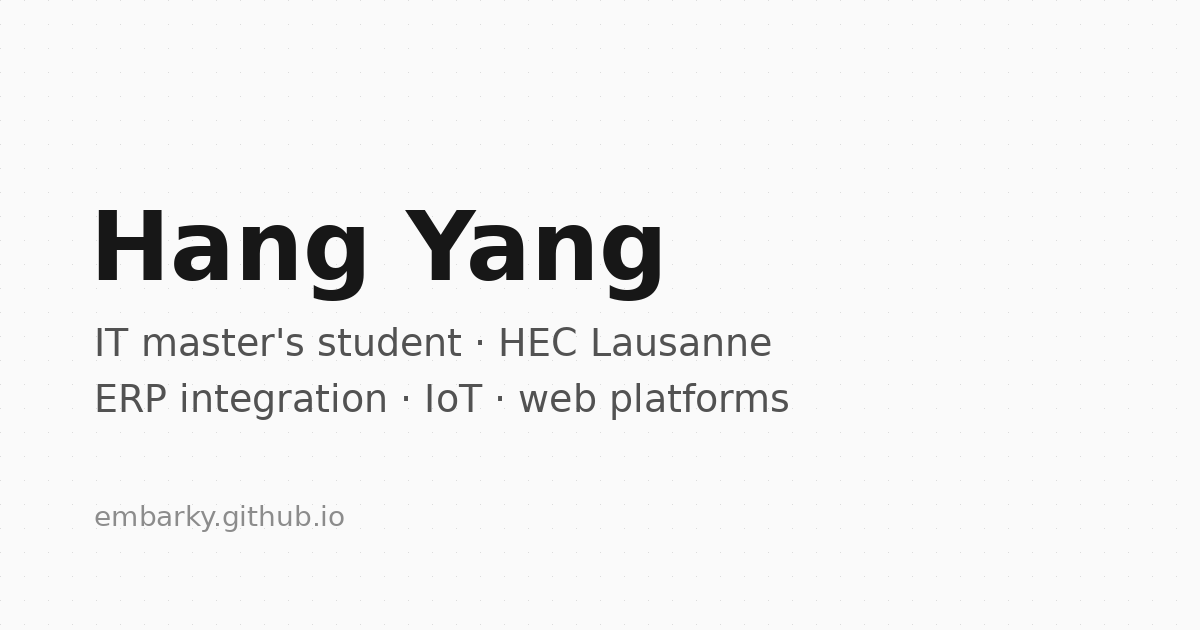
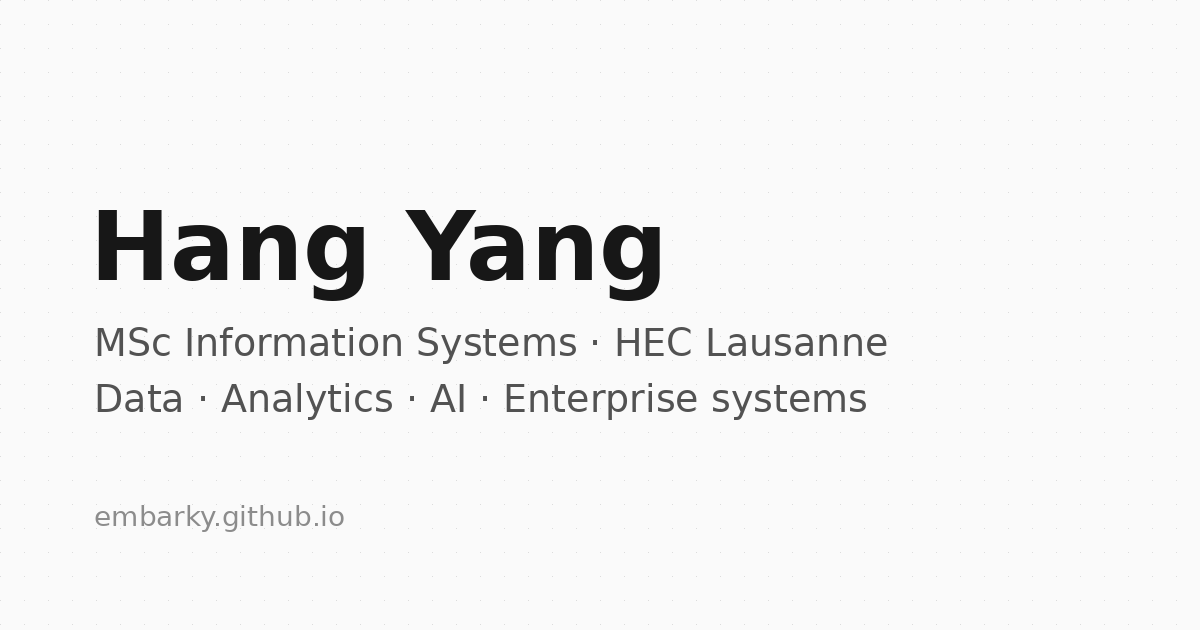
Fill in profile from CV
Add work experience at Dongfeng, bachelor education, data and ML
skills, email contact, course context for MSc projects and a
competitions & awards timeline; show work bullets as a list.

Claude-Session: https://claude.ai/code/session_011PJihjbh9c3cavSoe85DJL

Changed region(s): [[0.0925, 0.5127, 0.74, 0.573], [0.0925, 0.6032, 0.74, 0.6635]]

diff --git a/src/data/resume.tsx b/src/data/resume.tsx
@@ -3,6 +3,7 @@ import { House } from "lucide-react";
 import { Python } from "@/components/ui/svgs/python";
 import { Java } from "@/components/ui/svgs/java";
 import { Docker } from "@/components/ui/svgs/docker";
+import { Postgresql } from "@/components/ui/svgs/postgresql";
 
 export const DATA = {
   name: "Hang Yang",
@@ -11,14 +12,14 @@ export const DATA = {
   location: "Lausanne, Switzerland",
   locationLink: "https://www.google.com/maps/place/lausanne",
   description:
-    "IT master's student at HEC Lausanne. I connect business processes and software: ERP integration, IoT and web platforms.",
+    "MSc student in Information Systems at HEC Lausanne and former data engineer in the automotive industry. I work where data, AI and business meet.",
   summary:
-    "I study at [HEC Lausanne, University of Lausanne](/#education), where my work sits between business and technology. I like taking a real process (selling, renting, monitoring a room) and turning it into a system people can use: modelling it, integrating the tools a company already has, and shipping something that runs with one command.\n\nRecent work includes [opening an Odoo ERP sales process to customers](/#projects) through an API and web portals, [an IoT air-quality assistant](/#projects) with voice alerts and a cloud dashboard, and a full-stack rental platform in Jakarta EE.\n\nI am looking for an **industrial PhD** or an **industry role** in Switzerland, in digital transformation, enterprise systems or applied IoT.",
+    "I am studying for an [MSc in Information Systems and Digital Innovation](/#education) at HEC Lausanne, after a bachelor's in Data Science and Big Data Technology.\n\nBefore Lausanne I spent [a year at Dongfeng Special Commercial Vehicle](/#work), first as a data analyst intern, then as a data engineer: I predicted vehicle faults with XGBoost, built Power BI dashboards the R&D team used every day, and made the sensor-data pipelines faster and more reliable.\n\nAt UNIL I build [systems that connect business processes and technology](/#projects): an ERP integration for Odoo, an IoT air-quality assistant on Google Cloud, and a Jakarta EE rental platform.\n\nI am looking for an **industrial PhD** or a role in **data, analytics or AI** in Switzerland, where business and technology meet.",
   avatarUrl: "https://github.com/embarky.png",
   ogImage: "/og_image.png",
   sections: {
     about: { order: 1, enabled: true, heading: "About" },
-    work: { order: 2, enabled: false, heading: "Work Experience", presentLabel: "Present" },
+    work: { order: 2, enabled: true, heading: "Work Experience", presentLabel: "Present" },
     education: { order: 3, enabled: true, heading: "Education" },
     skills: { order: 4, enabled: true, heading: "Skills" },
     projects: {
@@ -26,17 +27,17 @@ export const DATA = {
       enabled: true,
       label: "Projects",
       heading: "Selected work",
-      text: "Each project runs locally with a single docker compose command, with tests and CI on GitHub.",
+      text: "MSc projects at UNIL. Each one runs locally with a single docker compose command, with tests and CI on GitHub.",
     },
     hackathons: {
-      order: 7,
-      enabled: false,
-      label: "Hackathons",
-      heading: "Hackathons",
-      text: "",
+      order: 6,
+      enabled: true,
+      label: "Earlier projects",
+      heading: "Competitions & awards",
+      text: "Projects from my bachelor's years, most of them recognised in national competitions.",
     },
     photos: {
-      order: 6,
+      order: 7,
       enabled: false,
       heading: "Photos",
     },
@@ -45,28 +46,29 @@ export const DATA = {
       enabled: true,
       label: "Contact",
       heading: "Get in Touch",
-      text: "Open to industrial PhD positions and roles in Switzerland. The quickest way to reach me is through [GitHub](https://github.com/embarky).",
+      text: "Open to industrial PhD positions and data, analytics or AI roles in Switzerland. Write to me at [hang.yang@unil.ch](mailto:hang.yang@unil.ch).",
     },
   },
   photos: [],
   skills: [
     { name: "Python", icon: Python },
-    { name: "Java", icon: Java },
+    { name: "SQL" },
+    { name: "Java (Jakarta EE)", icon: Java },
+    { name: "pandas" },
+    { name: "scikit-learn" },
+    { name: "XGBoost / LightGBM" },
+    { name: "Spark SQL" },
+    { name: "Power BI" },
+    { name: "Google Cloud (BigQuery)" },
     { name: "Docker", icon: Docker },
-    { name: "FastAPI" },
-    { name: "Flask" },
-    { name: "Jakarta EE" },
-    { name: "SQL / MySQL" },
-    { name: "BigQuery" },
+    { name: "FastAPI / Flask" },
+    { name: "MySQL / PostgreSQL", icon: Postgresql },
     { name: "Odoo ERP" },
-    { name: "Node-RED" },
-    { name: "BPMN & UML" },
-    { name: "MicroPython / IoT" },
-    { name: "CI with GitHub Actions" },
+    { name: "OpenCV / YOLOv5" },
   ],
   navbar: [{ href: "/", icon: House, label: "Home" }],
   contact: {
-    email: "",
+    email: "hang.yang@unil.ch",
     tel: "",
     social: {
       GitHub: {
@@ -75,28 +77,67 @@ export const DATA = {
         icon: Icons.github,
         navbar: true,
       },
+      email: {
+        name: "Email",
+        url: "mailto:hang.yang@unil.ch",
+        icon: Icons.email,
+        navbar: true,
+      },
     },
   },
 
-  work: [],
+  work: [
+    {
+      company: "Dongfeng Special Commercial Vehicle",
+      href: "https://www.dfcv.com.cn",
+      badges: [],
+      location: "Shiyan, China",
+      title: "Data Engineer",
+      logoUrl: "https://www.google.com/s2/favicons?domain=dfcv.com.cn&sz=128",
+      start: "Sep 2023",
+      end: "Feb 2024",
+      description:
+        "- Re-designed the indexes of the vehicle-record tables in a MySQL master-slave setup, cutting query latency from 1.2 s to 0.4 s.\n- Designed data-integrity rules (VIN format, timestamp continuity) that resolved 50+ sensor-data misalignments per month.\n- Built Spark SQL batch jobs that standardised 10+ vehicle signal types into Parquet datasets for the algorithm team.",
+    },
+    {
+      company: "Dongfeng Special Commercial Vehicle",
+      href: "https://www.dfcv.com.cn",
+      badges: [],
+      location: "Shiyan, China",
+      title: "Data Analyst Intern",
+      logoUrl: "https://www.google.com/s2/favicons?domain=dfcv.com.cn&sz=128",
+      start: "Feb 2023",
+      end: "Sep 2023",
+      description:
+        "- Built an XGBoost classifier on sensor and fault data to predict the risk of critical fault codes (73% accuracy).\n- Developed a Power BI vehicle-performance dashboard (fault heatmap, driving-behaviour radar) that helped R&D find high-failure components; 200+ visits per day.\n- Automated daily and weekly driving reports that flag abnormal fluctuations, saving 15 hours of manual analysis per week.",
+    },
+  ],
   education: [
     {
       school: "HEC Lausanne, University of Lausanne",
       href: "https://www.unil.ch/hec",
-      degree: "Master of Science in Information Systems",
+      degree: "MSc in Information Systems and Digital Innovation",
       logoUrl: "https://www.google.com/s2/favicons?domain=unil.ch&sz=128",
-      start: "",
-      end: "Present",
+      start: "2025",
+      end: "2027 (expected)",
+    },
+    {
+      school: "China Three Gorges University",
+      href: "https://www.ctgu.edu.cn",
+      degree: "BEng in Data Science and Big Data Technology",
+      logoUrl: "https://www.google.com/s2/favicons?domain=ctgu.edu.cn&sz=128",
+      start: "2019",
+      end: "2023",
     },
   ],
   projects: [
     {
       title: "Odoo Sales Integration",
       href: "https://github.com/embarky/odoo-sales-integration",
-      dates: "2025",
+      dates: "Autumn 2025 · Enterprise Data and Integration",
       active: true,
       description:
-        "Opened a company's Odoo ERP sales process to its customers. Modelled the process in BPMN and UML, exposed Odoo through a documented REST API, and built a customer portal, back office, service desk and KPI dashboards on top of it.",
+        "Opened a company's Odoo ERP sales process to its customers. Modelled the process in BPMN and UML, exposed Odoo through a FastAPI service with 20+ endpoints (quotations, orders, invoices, purchasing), and built a customer portal, back office and KPI dashboards on top.",
       technologies: ["Odoo ERP", "FastAPI", "XML-RPC", "Node-RED", "BPMN", "Docker"],
       links: [
         {
@@ -111,11 +152,11 @@ export const DATA = {
     {
       title: "AuraSense",
       href: "https://github.com/embarky/AuraSense-M5StackCore2",
-      dates: "2026",
+      dates: "Spring 2026 · Cloud and Advanced Analytics",
       active: true,
       description:
-        "An indoor air-quality assistant on an M5Stack Core2: live sensing, light and spoken alerts that work offline, a Gemini voice assistant, and a cloud backend with a web dashboard. 89 automated tests, down to the firmware.",
-      technologies: ["MicroPython", "Flask", "BigQuery", "Gemini", "Streamlit", "Docker"],
+        "An edge-to-cloud air-quality monitor on an M5Stack Core2: three sensors, light and voice alerts, a Gemini voice assistant, and a Flask + BigQuery back-end with a Streamlit dashboard on Google Cloud.",
+      technologies: ["MicroPython", "Flask", "BigQuery", "Gemini API", "GCP", "Docker"],
       links: [
         {
           type: "Video",
@@ -134,11 +175,11 @@ export const DATA = {
     {
       title: "Luxury Car Rental",
       href: "https://github.com/embarky/LuxuryCarRental",
-      dates: "",
+      dates: "Autumn 2025 · Software Architectures",
       active: true,
       description:
-        "A car rental platform in a three-layer Jakarta EE architecture: JSF front end, secured REST API and MySQL. Covers the full booking life cycle, from licence checks and payment to hand-over, return and refund, plus an admin dashboard.",
-      technologies: ["Java 17", "Jakarta EE 10", "JSF", "JAX-RS", "MySQL", "Testcontainers"],
+        "A multi-tier Jakarta EE platform: domain, REST service (~40 JAX-RS endpoints) and JSF front end, with MySQL, e-mail notifications and an admin dashboard. Covers the full booking life cycle, from licence checks to hand-over and refund.",
+      technologies: ["Java 17", "Jakarta EE", "JAX-RS", "JSF", "MySQL", "Docker"],
       links: [
         {
           type: "Source",
@@ -150,5 +191,42 @@ export const DATA = {
       video: "",
     },
   ],
-  hackathons: [],
+  hackathons: [
+    {
+      title: "Vehicle Fault Diagnosis",
+      dates: "2023",
+      location: "6th place (top 2%), 6th Dongfeng Youth Digital Innovation & Skills Challenge",
+      description:
+        "Cleaned 100,000+ fault codes and sensor records and built an XGBoost model to diagnose high-frequency faults, with a Power BI dashboard of fault heatmaps and health scores. Troubleshooting became 40% faster, saving an estimated USD 150K a year in after-sales costs.",
+      image: "",
+      links: [],
+    },
+    {
+      title: "Intelligent Power Maintenance System",
+      dates: "2022 – 2023 · Bachelor thesis",
+      location: "China Three Gorges University",
+      description:
+        "Trained a YOLOv5 insulator-defect detector with transfer learning on ~2,000 images (91.5% test accuracy) and built a small web service for maintenance records and work orders.",
+      image: "",
+      links: [],
+    },
+    {
+      title: "Machine-Learning Trading Strategy",
+      dates: "2021 – 2022",
+      location: "First Prize, 9th National Securities Investment Simulation Competition · Third Prize, 7th Eastmoney Cup",
+      description:
+        "Designed a LightGBM mid-frequency strategy combining sentiment and momentum factors with dynamic risk parity and adaptive stops (24.3% annualised return in backtesting).",
+      image: "",
+      links: [],
+    },
+    {
+      title: "Depth-Vision Smart Cane",
+      dates: "2021",
+      location: "Third Prize, 9th National Digital Media Sci-Tech Works and Creativity Competition",
+      description:
+        "Calibrated an Intel RealSense RGB-D camera and built a labelled set of 1,000+ depth images for real-time obstacle detection, with audio-vibration feedback for visually impaired users.",
+      image: "",
+      links: [],
+    },
+  ],
 } as const;

diff --git a/src/components/section/work-section.tsx b/src/components/section/work-section.tsx
@@ -9,6 +9,7 @@ import {
 import { DATA } from "@/data/resume";
 import { ChevronDown, ChevronRight } from "lucide-react";
 import { cn } from "@/lib/utils";
+import Markdown from "react-markdown";
 
 function LogoImage({ src, alt }: { src: string; alt: string }) {
   const [imageError, setImageError] = useState(false);
@@ -34,8 +35,8 @@ export default function WorkSection() {
     <Accordion type="single" collapsible className="w-full grid gap-6">
       {DATA.work.map((work) => (
         <AccordionItem
-          key={work.company}
-          value={work.company}
+          key={work.company + work.title}
+          value={work.company + work.title}
           className="w-full border-b-0 grid gap-2"
         >
           <AccordionTrigger className="hover:no-underline p-0 cursor-pointer transition-colors rounded-none group [&>svg]:hidden">
@@ -76,7 +77,9 @@ export default function WorkSection() {
             </div>
           </AccordionTrigger>
           <AccordionContent className="p-0 ml-13 text-xs sm:text-sm text-muted-foreground">
-            {work.description}
+            <div className="[&_ul]:list-disc [&_ul]:pl-4 [&_li]:mt-1">
+              <Markdown>{work.description}</Markdown>
+            </div>
           </AccordionContent>
         </AccordionItem>
       ))}
